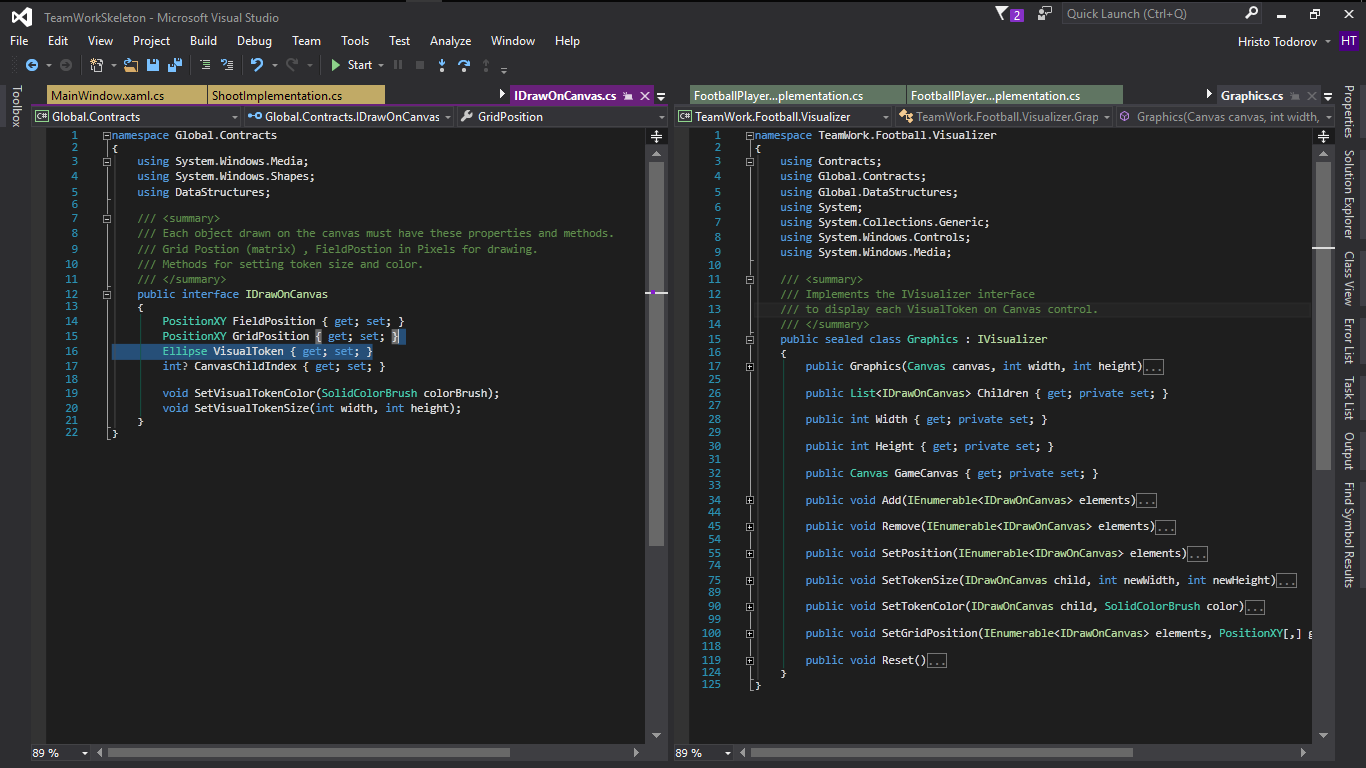
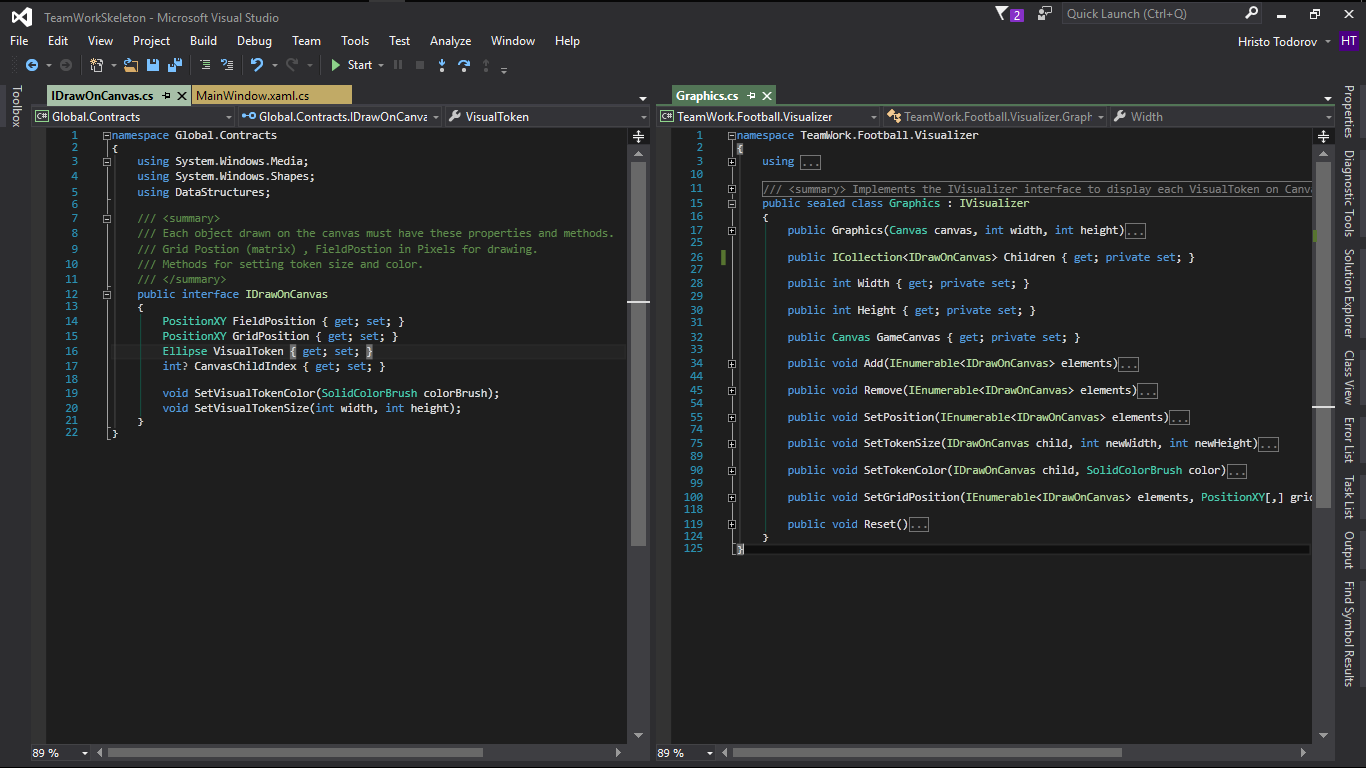
Update: New 02.png

diff --git a/TeamWorkSkeleton/TeamWork.Football.Visualizer/Graphics.cs b/TeamWorkSkeleton/TeamWork.Football.Visualizer/Graphics.cs
@@ -23,7 +23,7 @@
             this.Children = new List<IDrawOnCanvas>();
         }
 
-        public List<IDrawOnCanvas> Children { get; private set; }
+        public ICollection<IDrawOnCanvas> Children { get; private set; }
 
         public int Width { get; private set; }
 

diff --git a/TeamWorkSkeleton/TeamWork.Football.Visualizer/Contracts/IVisualizer.cs b/TeamWorkSkeleton/TeamWork.Football.Visualizer/Contracts/IVisualizer.cs
@@ -15,7 +15,7 @@
         int Width { get; }
         int Height { get; }
 
-        List<IDrawOnCanvas> Children { get; }
+        ICollection<IDrawOnCanvas> Children { get; }
 
         Canvas GameCanvas { get; }
 
